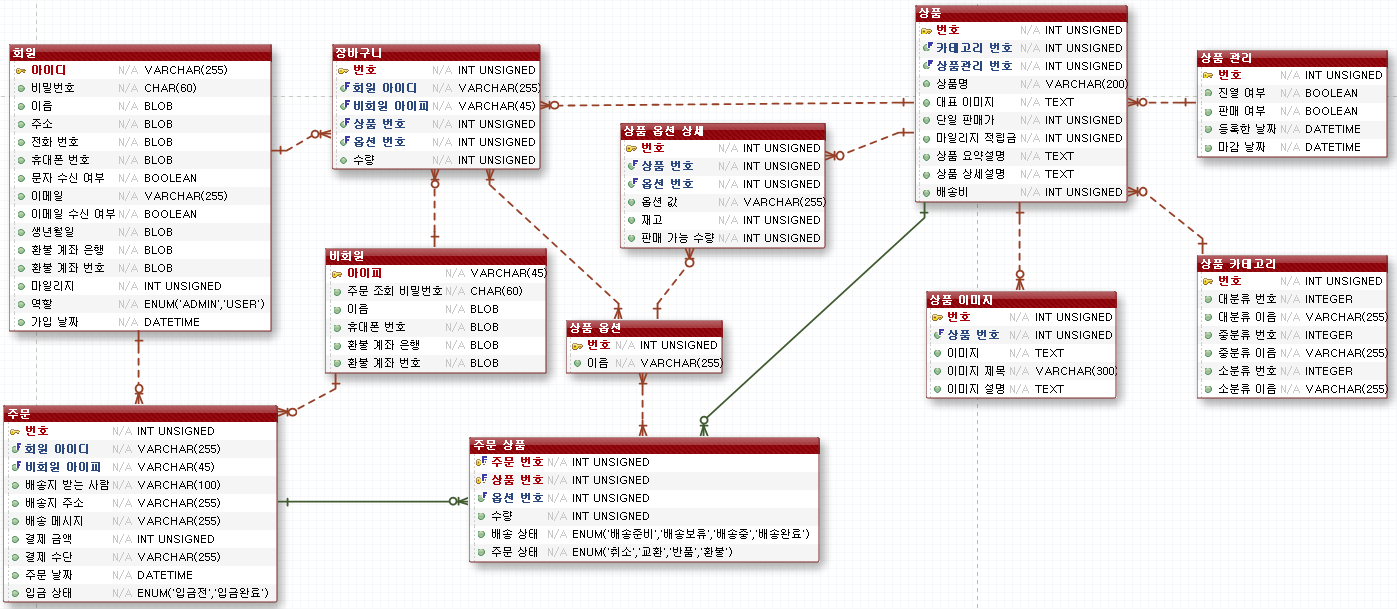
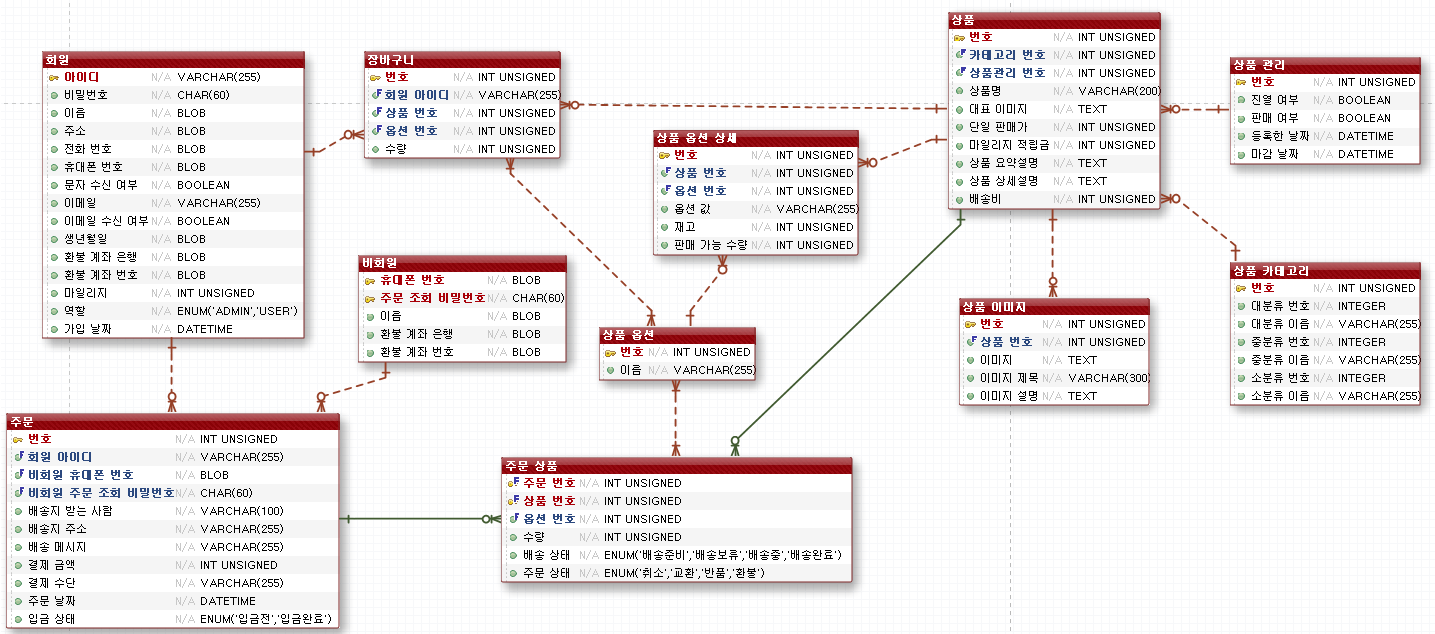
ERD 업데이트 및 고객측 사용자 시나리오 추가

diff --git a/docs/2주차/사용자 시나리오.md b/docs/2주차/사용자 시나리오.md
@@ -1,0 +1,187 @@
+# 사용자 시나리오
+### 로그인 명세서 / 시퀀스 다이어그램
+```
+▶ 유스케이스명 : 로그인
+▶ 액터명 : 고객
+▶ 유스케이스 개요 및 설명 : 고객이 브라우저를 통해 로그인을 하는 시나리오이다.
+▶ 사전 조건 : 로그인이 되어있지 않은 상태여야 한다.
+▶ 이벤트 흐름
+- 정상 흐름
+(1) 로그인을 시도한다 (고객) (선택흐름 A)
+(2) 회원 테이블에서 아이디와 비밀번호를 검색한다 (서버) (선택흐름 B)
+(3) 로그인에 성공하면 쇼핑몰의 메인 페이지를 고객에게 보여준다 (서버)
+- 선택흐름
+A. 브라우저에서 아이디와 비밀번호의 유효성 검사
+A-1. 아이디를 입력하지 않은 경우 '아이디를 입력해 주세요' 라는 메세지를 사용자에게 보여준다
+A-2. 비밀번호를 입력하지 않은 경우 '비밀번호를 입력해 주세요' 라는 메세지를 사용자에게 보여준다
+A-3. 공격에 사용될 수 있는 특수 문자나 한글을 입력한 경우 '올바른 형식이 아닙니다' 라는 메세지를 사용자에게 보여준다
+
+B. 서버에서 아이디와 비밀번호의 유효성 검사
+B-1. 아이디 파라미터가 비어있는 경우 '아이디를 입력해 주세요' 라는 메세지를 브라우저에 전송한다
+B-2. 비밀번호 파라미터가 비어있는 경우 '비밀번호를 입력해 주세요' 라는 메세지를 브라우저에 전송한다
+B-3. 공격에 사용될 수 있는 특수 문자나 한글을 입력한 경우 '올바른 형식이 아닙니다' 라는 메세지를 브라우저에 전송한다
+B-4. 회원 테이블에 아이디와 비밀번호가 일치하는 정보가 없다면 '계정이 존재하지 않습니다' 라는 메세지를 브라우저에 전송한다
+```
+![123](https://user-images.githubusercontent.com/20277647/60804071-9efd5380-a1b7-11e9-9bfd-af04f1de89b4.PNG)
+
+### 회원가입 명세서 / 시퀀스 다이어그램
+```
+▶ 유스케이스명 : 회원가입
+▶ 액터명 : 고객
+▶ 유스케이스 개요 및 설명 : 고객이 브라우저를 통해 회원가입을 하는 시나리오이다.
+▶ 사전 조건 : 로그인 및 회원가입이 되어있지 않은 상태여야 한다.
+▶ 이벤트 흐름
+- 정상 흐름
+(1) 회원가입을 시도한다 (고객)
+(2) 약관 페이지를 보여준다 (브라우저) (선택흐름 A)
+(3) 회원가입에 필요한 정보들을 입력한다 (고객)
+(4) 아이디 중복 여부를 체크한다 (서버) (선택흐름 B)
+(5) 회원가입 버튼을 누른다 (고객) (선택흐름 C)
+(6) 고객이 입력한 회원 정보를 데이터베이스에 저장한다 (서버) (선택흐름 D)
+(7) 회원가입이 성공했다는 메세지와 함께 브라우저를 로그인 페이지로 이동 시킨다 (서버)
+- 선택흐름
+A. 고객의 약관 동의 여부
+A-1. 고객이 회원가입시 약관에 동의하지 않은 경우 '약관에 동의하지 않을 경우 회원가입을 하실 수 없습니다' 라는 메세지를 고객에게 보여준다
+
+B. 아이디 중복 검사
+B-1. 아이디가 존재하는 경우 '이미 존재하는 아이디 입니다' 라는 메세지를 브라우저에 전송한다
+B-2. 아이디가 존재하지 않는 경우 체크 표시를 통해 사용 가능한 아이디라는 것을 사용자에게 알려준다
+B-3. 아이디에 대해 공격에 사용될 수 있는 특수 문자나 한글 등을 입력한 경우 '아이디의 형식이 올바르지 않습니다' 라는 메세지를 사용자에게 보여준다
+
+C. 브라우저에서 회원가입 입력값에 대한 유효성 검사
+C-1. 아이디, 비밀번호, 이름, 주소, 휴대폰 번호, 이메일, 생년월일, 환불 계좌 은행, 환불 계좌 번호 가 입력되어 있지 않으면 '필수 항목을 입력해 주세요' 라는 메세지를 사용자에게 보여준다
+C-2. 모든 입력 항목들에 대해 공격에 사용될 수 있는 특수 문자 등을 입력한 경우 '~~ 의 형식이 올바르지 않습니다' 라는 메세지를 사용자에게 보여준다
+
+D. 서버에서 회원가입 입력값에 대한 유효성 검사
+D-1. 아이디, 비밀번호, 이름, 주소, 휴대폰 번호, 이메일, 생년월일, 환불 계좌 은행, 환불 계좌 번호 가 입력되어 있지 않으면 '필수 항목을 입력해 주세요' 라는 메세지를 브라우저에 전송한다
+D-2. 모든 입력 항목들에 대해 공격에 사용될 수 있는 특수 문자 등을 입력한 경우 '~~ 의 형식이 올바르지 않습니다' 라는 메세지를 브라우저에 전송한다
+```
+![123](https://user-images.githubusercontent.com/20277647/60805789-1fbe4e80-a1bc-11e9-84e3-728b7e667c91.PNG)
+
+### 상품 리스트 조회 명세서 / 시퀀스 다이어그램
+```
+▶ 유스케이스명 : 상품 리스트 조회
+▶ 액터명 : 고객
+▶ 유스케이스 개요 및 설명 : 고객이 쇼핑몰의 카테고리 혹은 검색을 통해 구입할 상품의 리스트를 살펴볼 수 있는 시나리오이다.
+▶ 사전 조건 : 카테고리를 선택 하거나 검색 창에 검색한다.
+▶ 이벤트 흐름
+- 정상 흐름
+(1) 원하는 항목의 카테고리를 클릭한다 (고객) (선택흐름 A)
+(2) 상품 관리 테이블에서 진열 여부가 True이고, 상품 카테고리 테이블에서 사용자가 요청한 카테고리에 맞는 상품들의 리스트를 고객에게 보여준다 (서버)
+(3) 검색창을 통해 상품을 검색한다 (고객) (선택흐름 B)
+(4) 상품 관리 테이블에서 진열 여부가 True이고, 상품 테이블에서 상품명, 상품 요약 설명에 대해 검색어가 들어가 있거나, 상품 카테고리에 검색어가 들어가 있는 상품들의 리스트를 고객에게 보여준다 (서버)
+- 선택흐름
+A. 카테고리 유효성 검사
+A-1. 서버에 전송되는 카테고리에 공격에 사용될 수 있는 특수 문자 등을 입력한 경우 '카테고리의 형식이 올바르지 않습니다' 라는 메세지를 브라우저에 전송한다
+
+B. 검색어 유효성 검사
+B-1. 브라우저에서 공격에 사용될 수 있는 특수 문자 등을 입력한 경우 '검색어의 형식이 올바르지 않습니다' 라는 메세지를 고객에게 보여준다
+B-2. 서버에서 공격에 사용될 수 있는 특수 문자 등을 입력한 경우 '검색어의 형식이 올바르지 않습니다' 라는 메세지를 브라우저에 전송한다
+```
+![123](https://user-images.githubusercontent.com/20277647/60807026-8ee97200-a1bf-11e9-95ee-29d706e13b45.PNG)
+
+### 상품 상세 조회 명세서 / 시퀀스 다이어그램
+```
+▶ 유스케이스명 : 상품 상세 조회
+▶ 액터명 : 고객
+▶ 유스케이스 개요 및 설명 : 고객이 상품의 상세 조회를 할 수 있는 시나리오이다.
+▶ 사전 조건 : 상품 리스트에서 자세히 보기를 원하는 상품을 클릭한 상태여야 한다.
+▶ 이벤트 흐름
+- 정상 흐름
+(1) 상품의 상세한 정보를 보기 위해 상품 리스트에서 하나의 상품을 클릭한다 (고객) (선택흐름 A)
+- 선택흐름
+A. 상품 상세조회 유효성 검사
+A-1. 상품의 번호가 공격에 사용될 수 있는 특수 문자 등을 입력한 경우 '존재하지 않는 상품입니다' 라는 메세지를 브라우저에 전송한다
+```
+![123](https://user-images.githubusercontent.com/20277647/60807349-64e47f80-a1c0-11e9-81b6-ef87d1557a91.PNG)
+
+### 장바구니 관리 명세서 / 시퀀스 다이어그램
+```
+▶ 유스케이스명 : 장바구니 관리
+▶ 액터명 : 고객
+▶ 유스케이스 개요 및 설명 : 고객이 상품을 장바구니에 담을 수 있는 시나리오이다.
+▶ 사전 조건 : 상품 상세 조회에서 특정한 상품에 대해 장바구니 담기 버튼을 클릭한 상태이다.
+▶ 이벤트 흐름
+- 정상 흐름
+(1) 상품 옵션을 선택한다 (고객)
+(2) 장바구니 담기 버튼을 클릭한다 (고객)
+(3) 장바구니 정보를 데이터베이스에 저장한다 (서버) (선택흐름 A)
+(4) 장바구니 내에서 구매할 물품의 수량을 변경한다 (고객) (선택흐름 B)
+(5) 변경된 수량 정보를 데이터베이스에 저장한다 (서버) (선택흐름 A-4, C-2)
+(6) 장바구니 내에서 구매할 물품의 옵션을 변경한다 (고객)
+(7) 변경된 물품 옵션의 정보를 데이터베이스에 저장한다 (서버) (선택흐름 A-3, C-2)
+(8) 장바구니 아이콘을 클릭하여 장바구니를 조회한다 (고객)
+(9) 일부 항목들을 장바구니에서 삭제한다 (고객) (선택흐름 C)
+(10) 장바구니 비우기 버튼을 통해 장바구니에 담아져 있는 전체 물품을 삭제한다 (고객) (선택흐름 C)
+- 선택흐름
+A. 장바구니 담기 유효성 검사
+A-1. 회원인 경우 서버에 넘어오는 회원 아이디의 값이 올바른지 확인하고 올바르지 않다면 '세션이 만료되었습니다' 라는 메세지를 브라우저에 전송한 후 로그인 페이지로 이동 시킨다
+A-2. 상품의 번호가 공격에 사용될 수 있는 특수 문자 등을 입력한 경우 '존재하지 않는 상품입니다' 라는 메세지를 브라우저에 전송한다
+A-3. 상품 옵션 번호가 공격에 사용될 수 있는 특수 문자 등을 입력한 경우 '존재하지 않는 상품입니다' 라는 메세지를 브라우저에 전송한다
+A-4. 서버에 전달되는 수량이 숫자가 아니거나 공격에 사용될 수 있는 특수 문자 등을 입력한 경우 '수량이 잘못 되었습니다' 라는 메세지를 브라우저에 전송한다
+
+B. 물품의 수량 확인
+B-1. 상품 수량을 증가할 경우 상품 옵션 상세 테이블에서 판매 가능 수량이 0보다 큰지 확인한다
+
+C. 장바구니 삭제 유효성 검사
+C-1. 삭제할 때 넘어오는 장바구니 번호의 값이 유효한티 검증한다
+C-2. 회원인 경우 회원 아이디가 같은지, 비회원인 경우 동일 아이피에서 삭제를 요청하는지 검사한다
+```
+![123](https://user-images.githubusercontent.com/20277647/60816103-ee517d00-a1d3-11e9-89b5-27c59acdee7e.PNG)
+
+### 주문 명세서 / 시퀀스 다이어그램
+```
+▶ 유스케이스명 : 주문
+▶ 액터명 : 고객
+▶ 유스케이스 개요 및 설명 : 고객이 장바구니에 담긴 물품 혹은 물품 상세 정보에서 주문을 하는 시나리오이다.
+▶ 사전 조건 : 장바구니 조회 페이지 혹은 상품 상세 조회 페이지에서 주문하기 버튼을 누른 경우
+▶ 이벤트 흐름
+- 정상 흐름
+(1) 주문하기 버튼을 클릭한다 (고객)
+(2) 상품의 재고를 확인한다 (서버) (선택흐름 A)
+(2) 주문할 물품들의 정보와 주문 작성 페이지를 보여준다 (브라우저)
+(3) 배송지 받는 사람, 배송지 주소, 배송 메세지(선택사항)를 입력하고, 결제 수단을 선택한다 (고객) (선택흐름 B)
+(4) 주문 완료 버튼을 클릭한다 (고객) (선택흐름 C)
+(5) 결제 API를 통해 결제를 진행한다 (결제 API) (선택흐름 D)
+(6) 결제 완료 페이지를 보여준다 (브라우저)
+- 선택흐름
+A. 상품 재고 확인
+A-1. 상품의 재고가 주문하고자 하는 물품 수량보다 부족한 경우 '재고가 부족합니다' 라는 메세지를 브라우저에 전송한다
+A-2. 상품 재고가 정상적으로 있는 경우 아직 주문 전이더라도 상품 옵션 상세 테이블의 재고 값을 미리 감소시켜 놓는다
+
+B. 회원 비회원 유무
+B-1. 만약 비회원일 경우에는 추가적으로 주문 조회 비밀번호, 이름, 휴대폰 번호, 환불 계좌 은행, 환불 계좌 번호를 입력하도록 한다
+B-2. 만약 회원일 경우 마일리지 사용 여부를 확인한다
+
+C. 주문 작성 페이지 유효성 검사 (브라우저, 서버 양쪽에서 검사)
+C-1. 배송지 받는 사람에 악의적인 공격에 사용될 수 있는 특수 문자 등을 입력했는지 검사한다
+C-2. 배송지 주소에 악의적인 공격에 사용될 수 있는 특수 문자 등을 입력했는지 검사한다
+C-3. 배송 메세지에 악의적인 공격에 사용될 수 있는 특수 문자 등을 입력했는지 검사한다
+C-4. 결제 수단이 올바른 값인지 검사한다
+C-5. 회원, 비회원에 따른 추가 입력 사항들에 악의적인 공격에 사용될 수 있는 특수 문자 등을 입력했는지 검사한다
+
+D. 결제 수단에 따른 분기
+D-1. 즉시 결제하는 수단일 경우 결제 유효성을 검사하고 결제를 진행한다
+D-2. 나중에 결제하는 수단일 경우 지정한 날짜까지 결제가 이루어지는지 기다린다
+D-3. 이후 결제가 성공하면 주문 테이블의 입금 상태를 '입금완료'로 변경한다
+D-4. 설정한 기한까지 결제가 이루어지지 않으면 재고를 다시 원상복구 한다
+```
+![123](https://user-images.githubusercontent.com/20277647/60820228-f9a8a680-a1db-11e9-887c-6e51c34c9fd2.PNG)
+
+### 주문 내역 조회 명세서 / 시퀀스 다이어그램
+```
+▶ 유스케이스명 : 주문 내역 조회
+▶ 액터명 : 고객
+▶ 유스케이스 개요 및 설명 : 고객이 주문 내역을 조회하는 시나리오이다.
+▶ 사전 조건 : 주문 내역 조회 버튼을 클릭한다
+▶ 이벤트 흐름
+- 정상 흐름
+(1) 주문 내역 조회 버튼을 클릭한다 (고객)
+(2) 주문 내역 조회 페이지를 보여준다 (서버) (선택흐름 A)
+(3) 특정 주문에 대해 취소 혹은 교환 혹은 반품 혹은 환불을 선택한다
+- 선택흐름
+A. 회원 비회원 유무
+A-1. 회원인 경우 회원 아이디와 주문 번호를 바탕으로 주문 내역 조회 페이지를 보여준다
+A-2. 비회원인 경우 휴대폰 번호와 주문 조회 비밀번호를 입력하여 주문 내역 조회 페이지를 보여준다
+```
+![123](https://user-images.githubusercontent.com/20277647/60822926-5ce90780-a1e1-11e9-9074-3d844a1a53e3.PNG)
